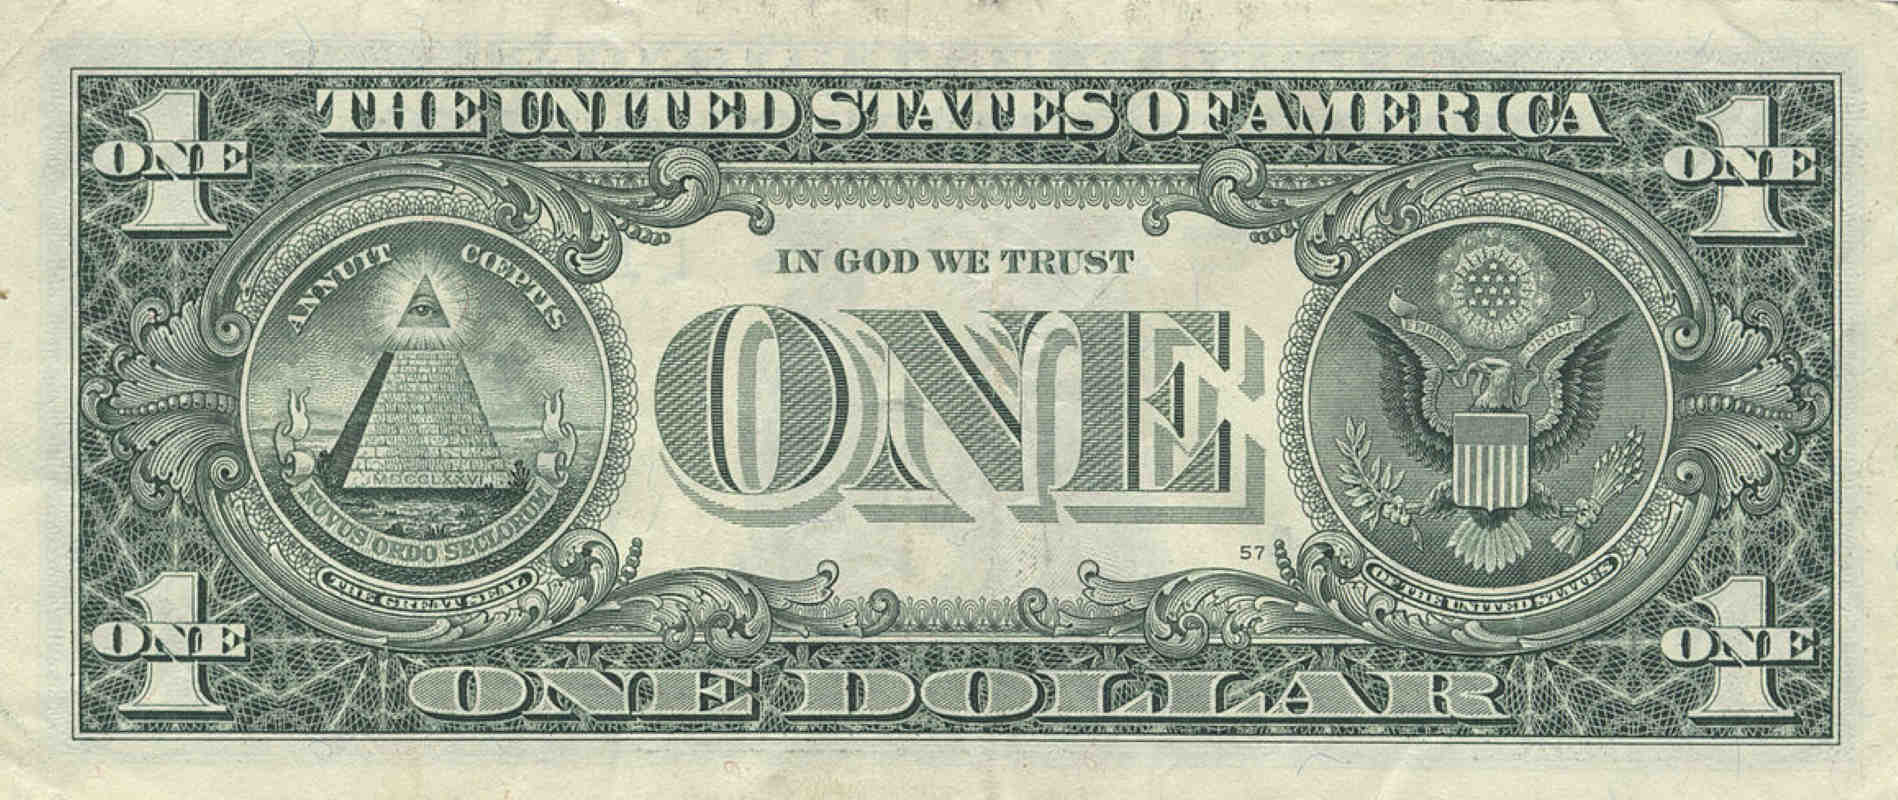
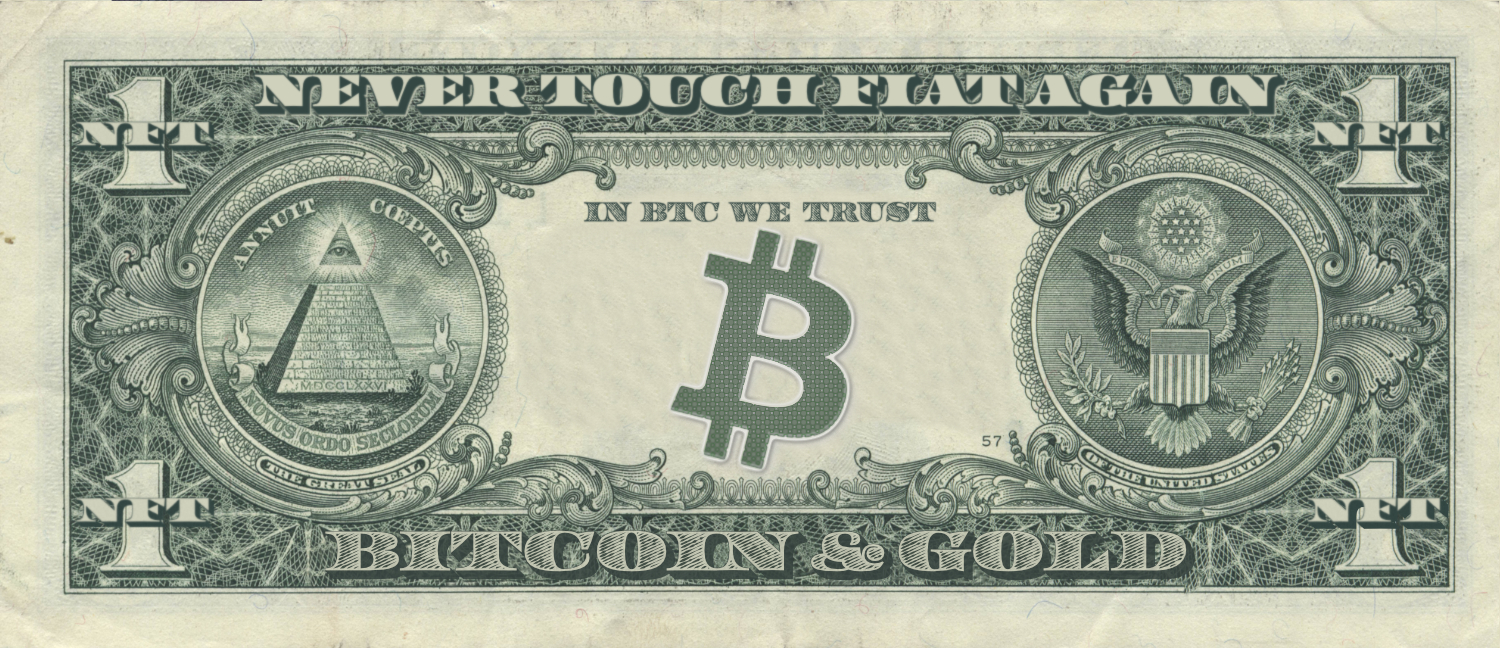
Adding in some more assets & some styling on section1

diff --git a/src/components/showcase/Showcase.featured.tsx b/src/components/showcase/Showcase.featured.tsx
@@ -24,7 +24,7 @@ export const ShowcaseFeaturedComponent: FC<ShowcaseFeaturedInterface> = ({ title
             seaport = new OpenSeaPort(window.ethereum, { networkName: Network.Main })
 
             const assetState = await seaport.api.getAsset({ tokenAddress: contract, tokenId });
-            console.log(assetState);    
+            console.log(assetState);
 
             if (assetState.sellOrders && assetState.sellOrders.length > 0) {
                 let price = 99999;
@@ -40,62 +40,80 @@ export const ShowcaseFeaturedComponent: FC<ShowcaseFeaturedInterface> = ({ title
 
                 setPrice(price);
             }
-            
+
             setAsset(assetState);
         })();
     }, [contract]);
 
     return(
-        <Box display="flex" alignItems="center" justifyContent="center" width="100%">
-            <Box
-                position="relative"
-                width="480px" height="480px"
-                overflow="hidden"
-                borderRadius="50%" border="5px solid #7D216B"
-                mr="60px"
-            >
-                <ReactPlayer
-                    url={url}
-                    playing={true}
-                    loop={true}
-                    width="200%" 
-                    height="100%"
-                    style={{ position: 'absolute', left: '-50%' }}
-                />
-            </Box>
-            <Box p="30px" width="420px" backgroundColor="rgba(255, 255, 255, 0.5)" borderRadius="15px">
-                <Heading size="xl" mb="15px" textAlign="center">{title}</Heading>
-                <Heading size="lg" mb="15px" textAlign="center">{price.toFixed(4)} ETH</Heading>
-                <ButtonGroup
-                    size="lg"
-                    alignItems="center"
-                    justifyContent="center"
+        <Box display="flex" alignItems="center" justifyContent="left" width="100%" sx={{}}>
+            <Box width="33%" textAlign="center">
+                <Box
+                    position="relative"
                     width="100%"
-                    onClick={async e => {
-                        if (typeof window.ethereum !== 'undefined') {
-                            const accounts = await window.ethereum.request({ method: 'eth_requestAccounts' });
-                            const offerPrice = 0.005 // (price ? price : 0.005);
-
-                            await seaport.wrapEth({
-                                amountInEth: offerPrice,
-                                accountAddress: accounts[0],
-                            })
-
-                            const offer = await seaport.createBuyOrder({
-                                asset: {
-                                    tokenId: (tokenId.toString()),
-                                    tokenAddress: contract,
-                                },
-                                accountAddress: accounts[0],
-                                startAmount: offerPrice,
-                            });
-                        }
-                    }}
+                    height="100%"
+                    maxW="480px" maxH="480px"
+                    overflow="hidden"
+                    margin="0 auto"
+                    borderRadius="50%" border="5px solid #7D216B"
                 >
-                    <Button width="120px" pt="5px" colorScheme="purple">BUY</Button>
-                    <Button width="120px" pt="5px" colorScheme="green">BID</Button>
-                </ButtonGroup>
+                    <Box className="playerWrapper" position="relative" paddingTop="100%" bg="blue.900">
+                        <ReactPlayer
+                            url={url}
+                            playing={true}
+                            loop={true}
+                            width="100%"
+                            height="100%"
+                            style={{ position: 'absolute', left: 0, top: 0 }}
+                        />
+                    </Box>
+                </Box>
             </Box>
+
+            <Box width="33%" d="flex" h="100%" justifyContent="center" alignContent="center">
+                <Box p="3%" height="100%" d="flex" alignItems="center" width="100%" color="white" fontFamily="Federal, serif" borderRadius="15px" textAlign="center" sx={{
+                    backgroundColor: `rgba(0,0,0,0.5)`,
+                    backdropFilter: `blur(7px)`,
+                    boxShadow: `0 0 15px rgba(0,0,0,0.5)`,
+                }}>
+                    <Box w="100%">
+                        <Heading as="h2" size="xl" mb="1vw" fontFamily="Federal, serif" fontWeight="100" textAlign="center" sx={{ position: `relative`, "&:after": { color: `green.600`, opacity: 0.8, content: `"${title}"`, fontFamily: `FederalEighteen, serif`, fontSize: `inherit`, position: `absolute`, top: `2%`, left: `2.5%`},  width: `auto`}}>{title}</Heading>
+                        <Heading size="lg" mx="auto" fontFamily="Federal, serif" fontWeight="100" textAlign="center" sx={{ position: `relative`, display: `inline`, width: `auto`, "&:after": { color: `green.600`, opacity: 0.8, content: `"${price.toFixed(4)} ETH"`, fontFamily: `FederalEighteen, serif`, fontSize: `inherit`, position: `absolute`, top: `-1%`, left: `0`,}}}>{price.toFixed(4)} ETH</Heading>
+                        <ButtonGroup
+                            size="lg"
+                            alignItems="center"
+                            justifyContent="center"
+                            width="100%"
+                            mt="1vw"
+                            onClick={async e => {
+                                if (typeof window.ethereum !== 'undefined') {
+                                    const accounts = await window.ethereum.request({ method: 'eth_requestAccounts' });
+                                    const offerPrice = 0.005 // (price ? price : 0.005);
+
+                                    await seaport.wrapEth({
+                                        amountInEth: offerPrice,
+                                        accountAddress: accounts[0],
+                                    })
+
+                                    const offer = await seaport.createBuyOrder({
+                                        asset: {
+                                            tokenId: (tokenId.toString()),
+                                            tokenAddress: contract,
+                                        },
+                                        accountAddress: accounts[0],
+                                        startAmount: offerPrice,
+                                    });
+                                }
+                            }}
+                        >
+                            <Button width="120px" pt="5px" colorScheme="purple">BUY</Button>
+                            <Button width="120px" pt="5px" colorScheme="green">BID</Button>
+                        </ButtonGroup>
+                    </Box>
+
+                </Box>
+            </Box>
+            <Box width="33%"></Box>
         </Box>
     )
 }

diff --git a/src/pages/index.tsx b/src/pages/index.tsx
@@ -55,21 +55,25 @@ export function IndexComponent() {
                         <Box className="spacer" height="80%"/>
                     </AssetContainer>
 
-                    <Box width="100%" height="33%" d="flex" flexFlow="row nowrap" alignItems="center" justifyContent="space-between" className="store">
+                    <AssetContainer width="100%" height="33%" d="flex" className="store">
                         <ShowcaseFeaturedComponent url="/preview/seed.card.mp4" title="Meta SEED Card" contract="0x06012c8cf97bead5deae237070f9587f8e7a266d" tokenId={515874}/>
-                    </Box>
+                    </AssetContainer>
 
                     <AssetContainer height="33%" width="100%" className="spacer">
-                        <Box className="spacer" height="10%"></Box>
-                        <Building buildingName="sign1" width="160%" height="40%"  img="" imgAlt="" z={300} position="absolute" bottom={10} right={-30}>
-                            <Link href="#section2" sx={{ color: `white`, textShadow: `10px 10px 0 rgba(0,0,0,0.8)`, fontSize: `3.5vw`, fontFamily: `Federal, serif`, textTransform: `uppercase`, position: `absolute`, width: `100%`, height: `100%`, left: 0, top: 0, textAlign: `center`}}>Bitcoin & Gold</Link>
+                        <Box className="spacer" height="43.5%"></Box>
+                        <Building buildingName="sign1" width="80%" height="40%" margin="0 0 0 10%"  img="" imgAlt="" z={300}>
+                            <Link href="#section2" sx={{
+                                color: `transparent`, textShadow: `10px 10px 0 rgba(0,0,0,0)`, fontSize: `3.4vw`, fontFamily: `Federal, serif`, textTransform: `uppercase`, position: `absolute`, width: `100%`, height: `100%`, left: 0, top: 0, textAlign: `center`,
+                                backgroundImage: `url(/assets/effects/fingerprint.png)`, backgroundRepeat: `no-repeat`, backgroundSize: `6.5vw`, backgroundPosition: `90%`, transform: `scaleX(-1)`,
+                                "&:hover": { color: `transparent !important`, textShadow: `10px 10px 0 rgba(0,0,0,0)` }
+                            }}>Bitcoin & Gold</Link>
                         </Building>
                     </AssetContainer>
                 </Box>
                 <StoreSceneRight className="scene__right" minW="10%"/>
             </Box>
 
-            <Box id="section2" className="cityScape" as="section" d="flex" flexDir="row" alignContent="stretch" minH="100vh" background="url(/assets/scenes/cityscape.jpg) 50% no-repeat" backgroundSize="100% 100%">
+            <Box id="section2" className="cityScape" as="section" d="flex" flexDir="row" alignContent="stretch" minH="100vh" background="url(/assets/scenes/bg-bridge-scene.png) 50% no-repeat" backgroundSize="100% 100%">
 
                 <IndexSceneLeft className="scene__left" minW="33%" />
 
@@ -110,14 +114,14 @@ export function IndexComponent() {
                                     sx={{
 
                                 }}>
-                                    <h2>Never Touch FIAT Again</h2>
+                                    <Heading as="h2">Never Touch FIAT Again</Heading>
                                     <ol>
                                         <li>Bitcoin is based on cryptographically proven randomness and scarcity over time.</li>
                                         <li>Gold is a rare earth metal used in countless tools, jewelry and as a store of wealth.</li>
                                         <li>NFTs are ownable digital records used to store information.</li>
                                     </ol>
 
-                                    <h3>What is your Dollar?</h3>
+                                    <Heading as="h3">What is your Dollar?</Heading>
                                      <p>NFTs can prove ownership of pretty much anything, like for example gold.</p>
 
                                     <p>Fiat becomes dirty money when the printers go BRRRRRRRRRRRRRRRR!!!</p>
@@ -125,7 +129,7 @@ export function IndexComponent() {
 
                                     <p>The best way to keep your hands clean is to...</p>
 
-                                    <h3>Never Touch FIAT Again</h3>
+                                    <Heading as="h3">Never Touch FIAT Again</Heading>
                                     <p>Gold and Art are a perfect match. Be rich and look good doing it! While the world crumbles, you can be a golden space cowboy!</p>
                                 </Box>
                             </Box>

diff --git a/src/pages/_app.tsx b/src/pages/_app.tsx
@@ -14,6 +14,18 @@ const theme = extendTheme({
             900: "#1a202c",
         },
     },
+    components: {
+        Heading: {
+            baseStyle: {
+                fontFamily: `Hero, sans-serif`,
+                fontWeight: `bold`
+            },
+            fontSizes: {
+                lg: `1.5vw`,
+                xl: `2.3vw`
+            }
+        }
+    },
     styles: {
         global: {
             html: {
@@ -34,23 +46,21 @@ const theme = extendTheme({
                 }
             },
             h2: {
-                fontFamily: `'Hero', sans-serif`,
                 fontSize: `1.5vw`,
-                marginBottom: `1vh`
+                marginBottom: `0.8vw`
             },
             h3: {
-                fontFamily: `'Hero', sans-serif`,
                 fontSize: `1.5vw`,
                 marginBottom: `0.8vw`
             },
             "p": {
                 fontSize: `0.9vw`,
-                marginBottom: `3%`,
+                marginBottom: `0.8vw`,
                 lineHeight: `1vw`,
             },
             ol: {
                 listStyle: `none`,
-                marginBottom: `0.8vh`
+                marginBottom: `0.8vw`
             },
             li: {
                 fontSize: `0.9vw`,

diff --git a/src/components/index/Store.scene.right.tsx b/src/components/index/Store.scene.right.tsx
@@ -16,8 +16,11 @@ export const StoreSceneRight: FC<StoreSceneRightInterface> = ({ className, minW 
             <AssetContainer width="100%" height="98%" className="logo">
                 <Box className="spacer" height="60%">
                 </Box>
-                <Building buildingName="store" margin="65% 0 0 -25%" img="/assets/signs/bitcoin-logo.png" imgAlt="/assets/signs/bitcoin-logo.png" height="20%" width="99%" z={0}>
-                    <Link href="#section3" sx={{ position: `absolute`, width: `100%`, height: `100%`, left: 0, top: 0, padding: `1% 3%`}}>About</Link>
+                <Building buildingName="store" margin="65% 0 0 -25%" img="/assets/effects/fingerprint.png" imgAlt="/assets/effects/fingerprint.png" height="20%" width="99%" z={0}>
+                    <Box position="relative" pt="100%" h="0">
+                        <Link href="#section3" sx={{ position: `absolute`, width: `100%`, height: `100%`, left: 0, top: 0, padding: `1% 3%`, borderRadius: `50%`}}>About</Link>
+
+                    </Box>
                 </Building>
             </AssetContainer>
 
